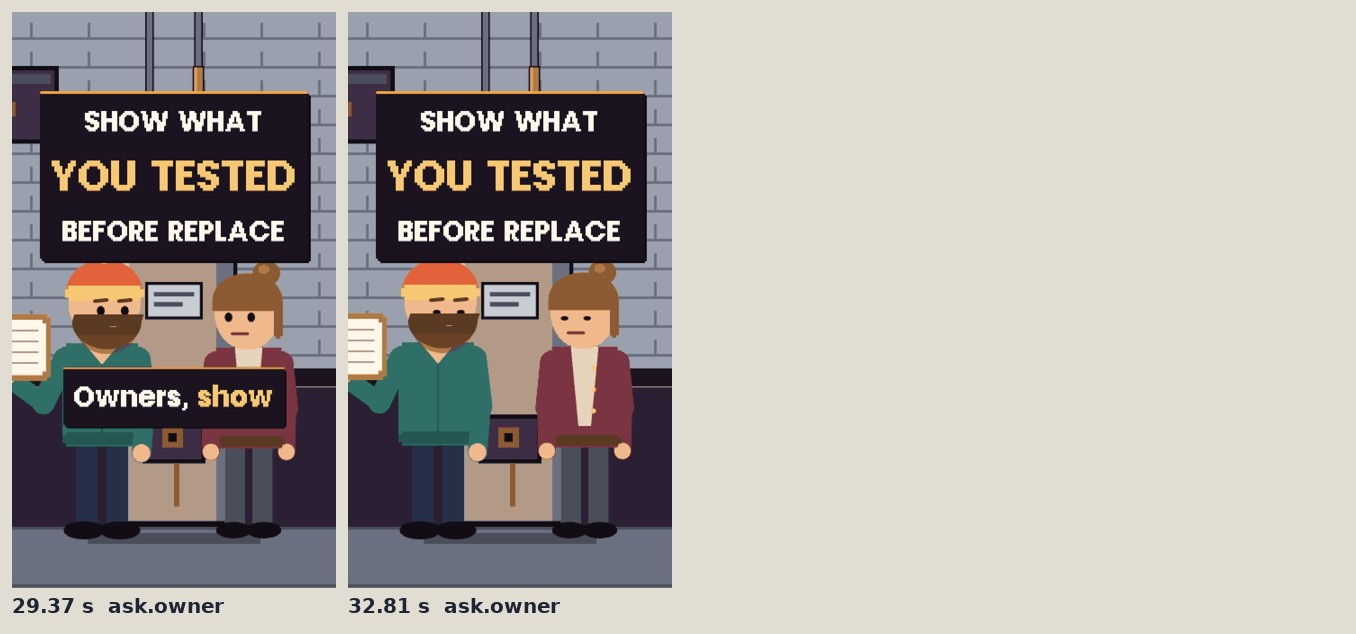
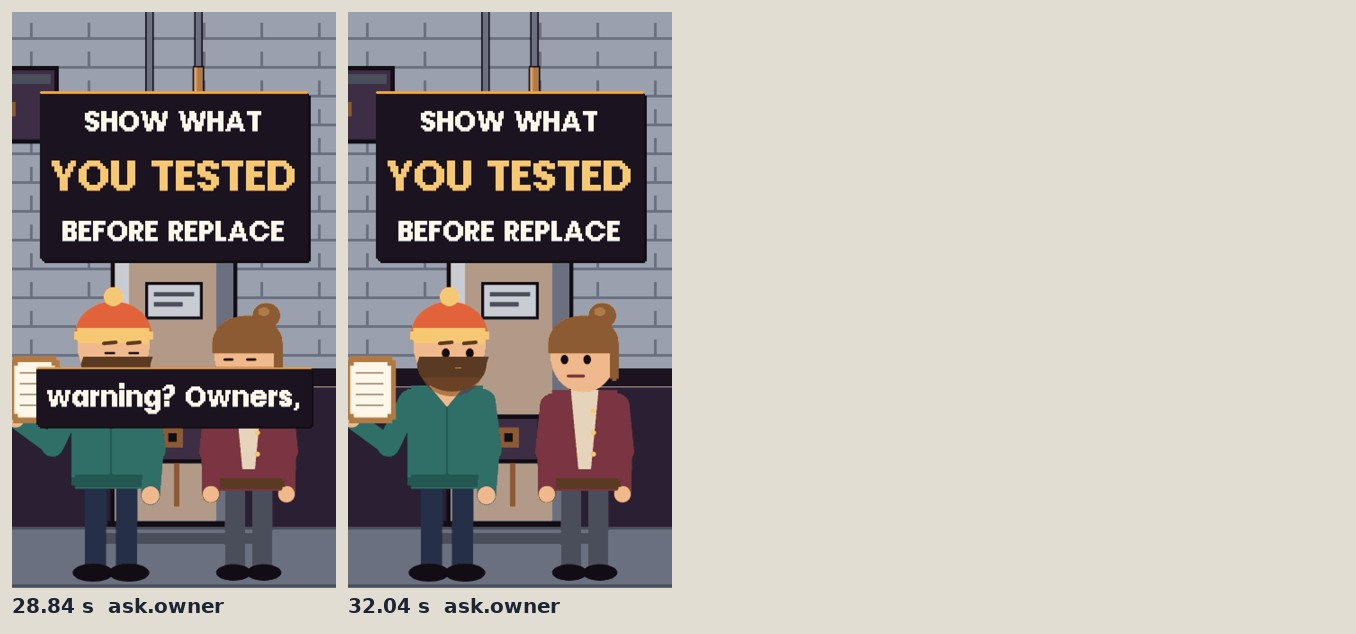
Studio: dead-or-150 fix round 1 (viewer r0, facts r0): lesson beat before the question, re-voice take 5
Claude-Session: https://claude.ai/code/session_01XMn4eK5WZ5WjGis6mA3SHZ

Changed region(s): [[0.0, 0.3896, 0.4646, 0.959]]

diff --git a/video/studio/videos/2026-12-04-dead-or-150/02_transcript/words.js b/video/studio/videos/2026-12-04-dead-or-150/02_transcript/words.js
@@ -1,1 +1,1 @@
-window.WORDS = {"words": [{"w": "One", "start": 0.0, "end": 0.36, "take": 1}, {"w": "heater.", "start": 0.36, "end": 0.7, "take": 1}, {"w": "Two", "start": 1.26, "end": 1.36, "take": 1}, {"w": "prices.", "start": 1.36, "end": 1.8, "take": 1}, {"w": "A", "start": 2.48, "end": 2.54, "take": 1}, {"w": "homeowner", "start": 2.54, "end": 2.84, "take": 1}, {"w": "says", "start": 2.84, "end": 3.24, "take": 1}, {"w": "plumber", "start": 3.24, "end": 3.68, "take": 1}, {"w": "one", "start": 3.68, "end": 3.94, "take": 1}, {"w": "took", "start": 3.94, "end": 4.14, "take": 1}, {"w": "two", "start": 4.14, "end": 4.48, "take": 1}, {"w": "minutes,", "start": 4.48, "end": 4.86, "take": 1}, {"w": "called", "start": 5.24, "end": 5.38, "take": 1}, {"w": "it", "start": 5.38, "end": 5.52, "take": 1}, {"w": "dead,", "start": 5.52, "end": 5.88, "take": 1}, {"w": "quoted", "start": 6.26, "end": 6.46, "take": 1}, {"w": "thirty-one", "start": 6.46, "end": 7.09, "take": 1}, {"w": "hundred.", "start": 7.09, "end": 7.3, "take": 1}, {"w": "Reenactment.", "start": 8.0, "end": 8.8, "take": 2}, {"w": "Can", "start": 9.32, "end": 9.4, "take": 2}, {"w": "you", "start": 9.4, "end": 9.56, "take": 2}, {"w": "still", "start": 9.56, "end": 9.74, "take": 2}, {"w": "come", "start": 9.74, "end": 9.94, "take": 2}, {"w": "look?", "start": 9.94, "end": 10.22, "take": 2}, {"w": "I'll", "start": 10.76, "end": 10.96, "take": 2}, {"w": "look.", "start": 10.96, "end": 11.14, "take": 2}, {"w": "Plumber", "start": 11.92, "end": 12.2, "take": 3}, {"w": "two", "start": 12.2, "end": 12.48, "take": 3}, {"w": "found", "start": 12.48, "end": 12.78, "take": 3}, {"w": "it", "start": 12.78, "end": 12.96, "take": 3}, {"w": "working", "start": 12.96, "end": 13.3, "take": 3}, {"w": "and", "start": 13.3, "end": 13.72, "take": 3}, {"w": "swapped", "start": 13.72, "end": 14.1, "take": 3}, {"w": "a", "start": 14.1, "end": 14.28, "take": 3}, {"w": "leaking", "start": 14.28, "end": 14.5, "take": 3}, {"w": "pipe", "start": 14.5, "end": 14.84, "take": 3}, {"w": "on", "start": 14.84, "end": 15.02, "take": 3}, {"w": "top.", "start": 15.02, "end": 15.38, "take": 3}, {"w": "A", "start": 15.98, "end": 16.14, "take": 3}, {"w": "hundred", "start": 16.14, "end": 16.3, "take": 3}, {"w": "and", "start": 16.3, "end": 16.3, "take": 3}, {"w": "fifty", "start": 16.3, "end": 16.46, "take": 3}, {"w": "dollars.", "start": 16.46, "end": 16.62, "take": 3}, {"w": "Hot", "start": 17.46, "end": 17.76, "take": 3}, {"w": "water's", "start": 17.76, "end": 18.14, "take": 3}, {"w": "back.", "start": 18.14, "end": 18.36, "take": 3}, {"w": "Plumber", "start": 18.94, "end": 19.16, "take": 3}, {"w": "three?", "start": 19.16, "end": 19.46, "take": 3}, {"w": "Cancelled.", "start": 20.14, "end": 20.36, "take": 3}, {"w": "But", "start": 21.28, "end": 21.44, "take": 4}, {"w": "the", "start": 21.44, "end": 21.58, "take": 4}, {"w": "tank's", "start": 21.58, "end": 22.04, "take": 4}, {"w": "ten", "start": 22.04, "end": 22.22, "take": 4}, {"w": "years", "start": 22.22, "end": 22.48, "take": 4}, {"w": "old.", "start": 22.48, "end": 22.9, "take": 4}, {"w": "Some", "start": 23.44, "end": 23.56, "take": 4}, {"w": "say", "start": 23.56, "end": 23.82, "take": 4}, {"w": "that's", "start": 23.82, "end": 24.1, "take": 4}, {"w": "near", "start": 24.1, "end": 24.22, "take": 4}, {"w": "the", "start": 24.22, "end": 24.42, "take": 4}, {"w": "end.", "start": 24.42, "end": 24.7, "take": 4}, {"w": "Upsell,", "start": 25.52, "end": 26.06, "take": 5}, {"w": "or", "start": 26.06, "end": 26.62, "take": 5}, {"w": "fair", "start": 26.62, "end": 27.02, "take": 5}, {"w": "warning?", "start": 27.02, "end": 27.44, "take": 5}, {"w": "Owners,", "start": 28.24, "end": 28.56, "take": 5}, {"w": "show", "start": 29.24, "end": 29.32, "take": 5}, {"w": "what", "start": 29.32, "end": 29.5, "take": 5}, {"w": "you", "start": 29.5, "end": 29.62, "take": 5}, {"w": "tested", "start": 29.62, "end": 30.1, "take": 5}, {"w": "before", "start": 30.1, "end": 30.54, "take": 5}, {"w": "you", "start": 30.54, "end": 30.78, "take": 5}, {"w": "say", "start": 30.78, "end": 31.0, "take": 5}, {"w": "replace.", "start": 31.0, "end": 31.34, "take": 5}], "takes": [{"n": 1, "start": 0.0, "end": 7.68, "wpm": 141}, {"n": 2, "start": 8.0, "end": 11.6, "wpm": 133}, {"n": 3, "start": 11.92, "end": 20.96, "wpm": 153}, {"n": 4, "start": 21.28, "end": 25.2, "wpm": 184}, {"n": 5, "start": 25.52, "end": 31.84, "wpm": 123}], "end": 31.34, "source": "whisper medium.en int8, re-spelled from script.md"};
+window.WORDS = {"words": [{"w": "One", "start": 0.0, "end": 0.36, "take": 1}, {"w": "heater.", "start": 0.36, "end": 0.7, "take": 1}, {"w": "Two", "start": 1.26, "end": 1.36, "take": 1}, {"w": "prices.", "start": 1.36, "end": 1.8, "take": 1}, {"w": "A", "start": 2.48, "end": 2.54, "take": 1}, {"w": "homeowner", "start": 2.54, "end": 2.84, "take": 1}, {"w": "says", "start": 2.84, "end": 3.24, "take": 1}, {"w": "plumber", "start": 3.24, "end": 3.68, "take": 1}, {"w": "one", "start": 3.68, "end": 3.94, "take": 1}, {"w": "took", "start": 3.94, "end": 4.14, "take": 1}, {"w": "two", "start": 4.14, "end": 4.48, "take": 1}, {"w": "minutes,", "start": 4.48, "end": 4.86, "take": 1}, {"w": "called", "start": 5.24, "end": 5.38, "take": 1}, {"w": "it", "start": 5.38, "end": 5.52, "take": 1}, {"w": "dead,", "start": 5.52, "end": 5.88, "take": 1}, {"w": "quoted", "start": 6.26, "end": 6.46, "take": 1}, {"w": "thirty-one", "start": 6.46, "end": 7.09, "take": 1}, {"w": "hundred.", "start": 7.09, "end": 7.3, "take": 1}, {"w": "Reenactment.", "start": 8.0, "end": 8.8, "take": 2}, {"w": "Can", "start": 9.32, "end": 9.4, "take": 2}, {"w": "you", "start": 9.4, "end": 9.56, "take": 2}, {"w": "still", "start": 9.56, "end": 9.74, "take": 2}, {"w": "come", "start": 9.74, "end": 9.94, "take": 2}, {"w": "look?", "start": 9.94, "end": 10.22, "take": 2}, {"w": "I'll", "start": 10.76, "end": 10.96, "take": 2}, {"w": "look.", "start": 10.96, "end": 11.14, "take": 2}, {"w": "Plumber", "start": 11.92, "end": 12.2, "take": 3}, {"w": "two", "start": 12.2, "end": 12.48, "take": 3}, {"w": "found", "start": 12.48, "end": 12.78, "take": 3}, {"w": "it", "start": 12.78, "end": 12.96, "take": 3}, {"w": "working", "start": 12.96, "end": 13.3, "take": 3}, {"w": "and", "start": 13.3, "end": 13.72, "take": 3}, {"w": "swapped", "start": 13.72, "end": 14.1, "take": 3}, {"w": "a", "start": 14.1, "end": 14.28, "take": 3}, {"w": "leaking", "start": 14.28, "end": 14.5, "take": 3}, {"w": "pipe", "start": 14.5, "end": 14.84, "take": 3}, {"w": "on", "start": 14.84, "end": 15.02, "take": 3}, {"w": "top.", "start": 15.02, "end": 15.38, "take": 3}, {"w": "A", "start": 15.98, "end": 16.22, "take": 3}, {"w": "hundred-and-fifty", "start": 16.22, "end": 16.46, "take": 3}, {"w": "dollars.", "start": 16.46, "end": 16.62, "take": 3}, {"w": "Hot", "start": 17.46, "end": 17.76, "take": 3}, {"w": "water's", "start": 17.76, "end": 18.14, "take": 3}, {"w": "back.", "start": 18.14, "end": 18.36, "take": 3}, {"w": "Plumber", "start": 18.94, "end": 19.16, "take": 3}, {"w": "three?", "start": 19.16, "end": 19.46, "take": 3}, {"w": "Canceled.", "start": 20.14, "end": 20.36, "take": 3}, {"w": "But", "start": 21.28, "end": 21.44, "take": 4}, {"w": "the", "start": 21.44, "end": 21.58, "take": 4}, {"w": "tank's", "start": 21.58, "end": 22.04, "take": 4}, {"w": "ten", "start": 22.04, "end": 22.22, "take": 4}, {"w": "years", "start": 22.22, "end": 22.48, "take": 4}, {"w": "old.", "start": 22.48, "end": 22.9, "take": 4}, {"w": "Some", "start": 23.44, "end": 23.56, "take": 4}, {"w": "say", "start": 23.56, "end": 23.82, "take": 4}, {"w": "that's", "start": 23.82, "end": 24.1, "take": 4}, {"w": "near", "start": 24.1, "end": 24.22, "take": 4}, {"w": "the", "start": 24.22, "end": 24.42, "take": 4}, {"w": "end.", "start": 24.42, "end": 24.7, "take": 4}, {"w": "Upsell,", "start": 25.52, "end": 26.06, "take": 5}, {"w": "or", "start": 26.06, "end": 26.62, "take": 5}, {"w": "fair", "start": 26.62, "end": 27.02, "take": 5}, {"w": "warning?", "start": 27.02, "end": 27.44, "take": 5}, {"w": "Owners,", "start": 28.24, "end": 28.56, "take": 5}, {"w": "show", "start": 29.24, "end": 29.32, "take": 5}, {"w": "what", "start": 29.32, "end": 29.5, "take": 5}, {"w": "you", "start": 29.5, "end": 29.62, "take": 5}, {"w": "tested", "start": 29.62, "end": 30.1, "take": 5}, {"w": "before", "start": 30.1, "end": 30.54, "take": 5}, {"w": "you", "start": 30.54, "end": 30.78, "take": 5}, {"w": "say", "start": 30.78, "end": 31.0, "take": 5}, {"w": "replace.", "start": 31.0, "end": 31.34, "take": 5}], "takes": [{"n": 1, "start": 0.0, "end": 7.68, "wpm": 141}, {"n": 2, "start": 8.0, "end": 11.6, "wpm": 133}, {"n": 3, "start": 11.92, "end": 20.96, "wpm": 139}, {"n": 4, "start": 21.28, "end": 25.2, "wpm": 184}, {"n": 5, "start": 25.52, "end": 31.84, "wpm": 123}], "end": 31.34, "source": "whisper medium.en int8, re-spelled from script.md"};

diff --git a/video/studio/videos/2026-12-04-dead-or-150/04_scene/scene.js b/video/studio/videos/2026-12-04-dead-or-150/04_scene/scene.js
@@ -121,11 +121,20 @@ window.SCENE = {
 };
 /* ---- hook.one: plumber one, close, at the heater: 2 MINUTES, then DEAD., then NEW ONE: $3,100 ---- */
 const one = (k, T) => {
-  const t0 = k.S('hook.one'), tDead = wordT(k, 'hook.one', /^dead/i, 2.5) - 0.12, tQuote = wordT(k, 'hook.one', /^thirty/i, 3.2) - 0.12;
-  k.cut(t0);
+  const t0 = k.S('hook.one'), tPl = wordT(k, 'hook.one', /^plumber/i, 0.8) - 0.08, tTwo = wordT(k, 'hook.one', /^two/i, 1.5) - 0.1;
+  const tDead = wordT(k, 'hook.one', /^dead/i, 2.5) - 0.12, tQuote = wordT(k, 'hook.one', /^thirty/i, 3.2) - 0.12;
+  if (T < tPl) {   /* viewer r0: the voice names the homeowner first, so the picture does too */
+    k.cut(t0);
+    utility(k, 0.25, 2.0, {fx: 300, fy: 900, drip: true});
+    owner(k, 540, 2.3, 'talk', 'cross', {feet: 1800, face: -1, talk: false});
+    plate(k, [['HOMEOWNER', 132, TEAL]], 264, {rule: TEAL});
+    return {host: false};
+  }
+  k.cut(tPl);
   utility(k, 0.25, 2.0, {fx: 400, fy: 900, drip: true});
   plumber1(k, 560, 2.3, T >= tQuote ? 'talk' : 'clip', {feet: 1800, talk: T >= tDead});
-  if (T < tDead - 0.06) plate(k, [['2 MINUTES', 132, CREAM]], 264);
+  if (T < tTwo - 0.06) plate(k, [['PLUMBER 1', 132, ORANGE]], 264);
+  else if (T < tDead - 0.06) stampPlate(k, [['2 MINUTES', 132, CREAM]], 264, tTwo, {drop: 0.06});
   else if (T < tQuote - 0.06) stampPlate(k, [['DEAD.', 198, RED]], 264, tDead, {drop: 0.06, freeze: 3});
   else stampPlate(k, [['NEW ONE:', 132, CREAM], ['$3,100', 198, RED]], 264, tQuote, {drop: 0.06, freeze: 4});
   return {host: false};
@@ -137,14 +146,11 @@ Object.assign(window.SCENE.sections, {
       const t0 = k.S('call'), tHer = wordT(k, 'call', /^can/i, 0.9) - 0.1, tHim = wordT(k, 'call', /^i'?ll/i, 3.4) - 0.1;
       k.cut(t0);
       split(k, WINE, SLATE);
-      const herTalk = T >= tHer && T < tHim, hisTalk = T >= tHim;
+      const herTalk = T >= tHer && T < tHim, hisTalk = T >= tHim;   /* viewer r0: no dimming (it changed their colors) */
       const hd = owner(k, 290, 1.9, 'phone', herTalk ? 'cross' : 'calm', {feet: 1740, face: 1, talk: herTalk}).head;
       const hd2 = plumber2(k, 800, 1.9, 'stand', {feet: 1740, talk: hisTalk});
       phoneAt(k, hd2.head, 1.9, 1);
-      if (!herTalk && !hisTalk) k.shape(k.rectPts(546, 0, 534, 1180, 0), {fill: 'rgba(18,13,20,0.0)', line: false});
-      if (herTalk) k.shape(k.rectPts(546, 250, 534, 930, 0), {fill: 'rgba(18,13,20,0.35)', line: false});
-      if (hisTalk) k.shape(k.rectPts(0, 250, 534, 930, 0), {fill: 'rgba(18,13,20,0.35)', line: false});
-      if (T < tHer - 0.06) plate(k, [['REENACTMENT', 132, CREAM]], 264, {rule: TEAL});
+      if (T < tHer - 0.06) plate(k, [['REENACTMENT', 132, CREAM], ['THE CALL TO', 132, CREAM], ['PLUMBER 2', 132, BLUE]], 264, {rule: TEAL});
       else if (T < tHim - 0.06) stampPlate(k, [['HOMEOWNER', 132, TEAL], ['CAN YOU STILL', 132, CREAM], ['COME LOOK?', 132, CREAM]], 264, tHer, {drop: 0.06, rule: WINE});
       else stampPlate(k, [['PLUMBER 2', 132, BLUE], ["I'LL LOOK.", 132, CREAM]], 264, tHim, {drop: 0.06, rule: BLUE});
       void hd;
@@ -158,7 +164,9 @@ Object.assign(window.SCENE.sections, {
         k.cut(t0);
         utility(k, 0.2, 2.0, {fx: 640, fy: 760, drip: T < tPipe + 0.4, fixed: T >= tPipe + 0.4});
         plumber2(k, 470, 2.2, T >= tCash ? 'shrug' : 'point', {feet: 1780, face: 1, at: [700, 420], talk: false});
-        if (T < tPipe - 0.06) plate(k, [['IT WORKS.', 198, TEAL]], 264);
+        const tFound = wordT(k, 'fix', /^found/i, 0.5) - 0.1;
+        if (T < tFound - 0.06) plate(k, [['PLUMBER 2', 132, BLUE]], 264, {rule: BLUE});
+        else if (T < tPipe - 0.06) stampPlate(k, [['IT WORKS.', 198, TEAL]], 264, tFound, {drop: 0.06});
         else if (T < tCash - 0.06) stampPlate(k, [['A LEAKING PIPE', 132, CREAM]], 264, tPipe, {drop: 0.06});
         else stampPlate(k, [['$150', 198, GOLD]], 264, tCash, {drop: 0.06, freeze: 4});
       } else {
@@ -180,7 +188,7 @@ Object.assign(window.SCENE.sections, {
       utility(k, 0.3, 2.0, {fx: 300, fy: 900, fixed: true});
       owner(k, 540, 2.3, 'phone', 'calm', {feet: 1800, face: 1, talk: T >= tCan});
       if (T < tCan - 0.06) plate(k, [['PLUMBER 3?', 132, CREAM]], 264);
-      else stampPlate(k, [['CANCELLED', 132, RED]], 264, tCan, {drop: 0.06, freeze: 3});
+      else stampPlate(k, [['CANCELED', 132, RED]], 264, tCan, {drop: 0.06, freeze: 3});
       return {host: false};
     },
 
@@ -195,31 +203,32 @@ Object.assign(window.SCENE.sections, {
         else stampPlate(k, [['10 YEARS OLD', 132, RED]], 264, tTen, {drop: 0.06, freeze: 4});
       } else {
         k.cut(tSome);
-        utility(k, 0.15, 1.8, {fx: 540, fy: 900, fixed: true});   /* facts r0 advisory: the age case is the commenters', not plumber one's */
+        utility(k, 0.15, 1.8 + 0.3 * clamp((T - tSome) / 2.0), {fx: 540, fy: 760, fixed: true});   /* facts r0 advisory: the age case is the commenters', not plumber one's; QA r0: a slow push-in (the shot sat flat 1.3 s) */
         plate(k, [['SOME SAY', 132, CREAM], ['NEAR THE END', 132, GOLD]], 264);
       }
       return {host: false};
     },
 
-    /* ---- ask: plumber one between the two readings of his quote: UPSELL? $3,100 against FAIR WARNING? 10 YEARS ---- */
+    /* ---- ask, the last frame: plumber one between the two readings of his quote: UPSELL? $3,100 against FAIR WARNING? 10 YEARS ---- */
     ask: (k, T) => {
-      const t0 = k.S('ask'), tFair = wordT(k, 'ask', /^fair/i, 0.9) - 0.1, tOwn = k.S('ask.owner');
-      if (T >= tOwn) return showIt(k, T, tOwn);
+      const t0 = k.S('ask'), tFair = wordT(k, 'ask', /^fair/i, 0.9) - 0.1;
       k.cut(t0);
       split(k, SLATE, DTEAL);
       plumber1(k, 540, 2.0, 'shrug', {feet: 1780});   /* facts r1 advisory: both readings hang on plumber one's verdict */
-      plate(k, [['UPSELL?', 132, RED], ['$3,100', 132, CREAM]], 264, {cx: 270, bg: INK, rule: RED});
-      if (T >= tFair) stampPlate(k, [['FAIR', 132, TEAL], ['WARNING?', 132, TEAL], ['10 YEARS', 132, CREAM]], 264, tFair, {cx: 810, bg: INK, rule: TEAL, drop: 0.06});
+      plate(k, [['UPSELL?', 132, RED], ['$3,100', 132, CREAM]], 264, {cx: 290, bg: INK, rule: RED});
+      if (T >= tFair) stampPlate(k, [['FAIR', 132, TEAL], ['WARNING?', 132, TEAL], ['10 YEARS', 132, CREAM]], 264, tFair, {cx: 768, bg: INK, rule: TEAL, drop: 0.06});
       return {host: false};
     },
 });
 
-/* ---- ask.owner (inside ask): the owner's move, the last thing heard and seen ---- */
-const showIt = (k, T, t0) => {
+/* ---- rule (viewer r0: the lesson gets its own beat before the question, tied to the tank's age) ---- */
+window.SCENE.sections.rule = (k, T) => {
+  const t0 = k.S('rule'), tShow = wordT(k, 'rule', /^show/i, 1.6) - 0.1;
   k.cut(t0);
   utility(k, 0.2, 1.6, {fx: 540, fy: 900, fixed: true});
-  plumber1(k, 330, 2.0, 'clip', {feet: 1880, face: 1});   /* the card owns y 264 to about 790: heads below it */
-  owner(k, 790, 2.1, 'stand', 'calm', {feet: 1880, face: -1});
-  stampPlate(k, [['SHOW WHAT', 132, CREAM], ['YOU TESTED', 198, GOLD], ['BEFORE REPLACE', 132, CREAM]], 264, t0 + 0.1, {drop: 0.06, freeze: 4});
+  plumber1(k, 340, 1.6, T >= tShow ? 'clip' : 'talk', {feet: 1630, face: 1});   /* faces between the card (to y 873) and the captions (from y 1184) */
+  owner(k, 760, 1.7, 'stand', 'calm', {feet: 1630, face: -1});
+  if (T < tShow - 0.06) plate(k, [['OLD? SAY SO.', 132, CREAM]], 264);
+  else stampPlate(k, [['SHOW WHAT', 132, CREAM], ['YOU TESTED', 198, GOLD], ['BEFORE REPLACE', 132, CREAM]], 264, tShow, {drop: 0.06, freeze: 4});
   return {host: false};
 };

diff --git a/video/studio/videos/2026-12-04-dead-or-150/03_cues/cues.js b/video/studio/videos/2026-12-04-dead-or-150/03_cues/cues.js
@@ -1,1 +1,1 @@
-window.CUES = {"schema": "pnf.studio.cues.v1", "source": "estimate", "music": {"id": "rooms", "level": 0.16, "tune": "night"}, "duration": 33.108, "cues": [{"id": "hook", "level": 0, "quote": "One heater", "sfx": "pop", "shift": 0.0, "pin": null, "text": "Frame 0, settled: the water heater in the middle, plumber one close on the left, plumber two close on the right. Left plate: $3,100 in red. Right plate: $150 in gold. At 0.5 s a plain cut to the heater close, the two prices on it, the left one red, the right one gold (the first change). On \"prices\" a plain cut back to the two plumbers, the same plates.", "t": 0.0, "word": 0, "end": 8.272}, {"id": "hook.one", "level": 1, "quote": "A homeowner says", "sfx": "blip", "shift": 0.0, "pin": null, "text": "A plain cut to plumber one, close, at the heater, clipboard up. The plate: 2 MINUTES. On \"dead\" a stamp: DEAD. in red. On \"thirty\" a stamp: NEW ONE: / $3,100, the last row big and red.", "t": 2.07, "word": 4, "end": 8.272}, {"id": "call", "level": 0, "quote": "Reenactment", "sfx": "blip", "shift": 0.0, "pin": null, "text": "The frame splits for a phone call: the homeowner left on a wine wall, phone to her ear; plumber two right on a slate wall, a phone at his ear. The plate across the top: REENACTMENT. On \"Can\" it gives way to the homeowner's line, her side lit: HOMEOWNER / CAN YOU STILL / COME LOOK? On \"I'll\" it gives way to his line, his side lit: PLUMBER 2 / I'LL LOOK.", "t": 8.272, "word": 18, "end": 12.284}, {"id": "fix", "level": 0, "quote": "Plumber two found it working", "sfx": "stamp", "shift": 0.0, "pin": null, "text": "A plain cut to plumber two, close, at the heater. The plate: IT WORKS. On \"swapped\" the pipe on top gets a new piece and the plate gives way to: A LEAKING PIPE. On \"hundred\" a stamp: $150, big and gold. On \"Hot\" a plain cut to the homeowner, close, smiling, steam off a mug: HOT WATER / IS BACK.", "payoff": true, "t": 12.284, "word": 26, "end": 19.966}, {"id": "three", "level": 0, "quote": "Plumber three", "sfx": "blip", "shift": 0.0, "pin": null, "text": "A plain cut to the homeowner, close, phone to her ear. The plate: PLUMBER 3? On \"Cancelled\" a stamp: CANCELLED in red.", "t": 19.966, "word": 46, "end": 22.202}, {"id": "twist", "level": 0, "quote": "But the tank's", "sfx": "stamp", "shift": 0.0, "pin": null, "text": "A plain cut to the heater, close, its label plate. The plate: THE TANK. On \"ten\" a stamp: 10 YEARS OLD, big and red. On \"Some\" a plain cut to the heater a step back, no one in the frame: SOME SAY / NEAR THE END.", "t": 22.202, "word": 49, "end": 26.928}, {"id": "ask", "level": 0, "quote": "Upsell, or fair", "sfx": "blip", "shift": 0.0, "pin": null, "text": "The frame splits, one person a side: plumber one on a slate wall left, plumber two on a teal wall right. Left plate: UPSELL? / $3,100 in red. Right plate, on \"fair\": FAIR / WARNING? / 10 YEARS, in teal.", "t": 26.928, "word": 61, "end": 33.108}, {"id": "ask.owner", "level": 1, "quote": "Owners, show what you", "sfx": "stamp", "shift": 0.0, "pin": null, "text": "A plain cut to the utility room, plumber one left holding the clipboard out to the homeowner right, who reads it. The card lands: SHOW WHAT / YOU TESTED / BEFORE REPLACE, the middle row big and gold. Ends 1 s after the last word.", "t": 28.77, "word": 65, "end": 33.108}]};
+window.CUES = {"schema": "pnf.studio.cues.v1", "source": "whisper medium.en int8, re-spelled from script.md", "music": {"id": "rooms", "level": 0.16, "tune": "night"}, "duration": 32.34, "cues": [{"id": "hook", "level": 0, "quote": "One heater", "sfx": "pop", "shift": 0.0, "pin": null, "text": "Frame 0, settled: the water heater in the middle, plumber one close on the left, plumber two close on the right. Left plate: $3,100 in red. Right plate: $150 in gold. At 0.5 s a plain cut to the heater close, the two prices on it, the left one red, the right one gold (the first change). On \"prices\" a plain cut back to the two plumbers, the same plates.", "t": 0.0, "word": 0, "end": 8.0}, {"id": "hook.one", "level": 1, "quote": "A homeowner says", "sfx": "blip", "shift": 0.0, "pin": null, "text": "A plain cut to plumber one, close, at the heater, clipboard up. The plate: 2 MINUTES. On \"dead\" a stamp: DEAD. in red. On \"thirty\" a stamp: NEW ONE: / $3,100, the last row big and red.", "t": 2.48, "word": 4, "end": 8.0}, {"id": "call", "level": 0, "quote": "Reenactment", "sfx": "blip", "shift": 0.0, "pin": null, "text": "The frame splits for a phone call: the homeowner left on a wine wall, phone to her ear; plumber two right on a slate wall, a phone at his ear. The plate across the top: REENACTMENT. On \"Can\" it gives way to the homeowner's line, her side lit: HOMEOWNER / CAN YOU STILL / COME LOOK? On \"I'll\" it gives way to his line, his side lit: PLUMBER 2 / I'LL LOOK.", "t": 8.0, "word": 18, "end": 11.92}, {"id": "fix", "level": 0, "quote": "Plumber two found it working", "sfx": "stamp", "shift": 0.0, "pin": null, "text": "A plain cut to plumber two, close, at the heater. The plate: IT WORKS. On \"swapped\" the pipe on top gets a new piece and the plate gives way to: A LEAKING PIPE. On \"hundred\" a stamp: $150, big and gold. On \"Hot\" a plain cut to the homeowner, close, smiling, steam off a mug: HOT WATER / IS BACK.", "payoff": true, "t": 11.92, "word": 26, "end": 18.94}, {"id": "three", "level": 0, "quote": "Plumber three", "sfx": "blip", "shift": 0.0, "pin": null, "text": "A plain cut to the homeowner, close, phone to her ear. The plate: PLUMBER 3? On \"Canceled\" a stamp: CANCELED in red.", "t": 18.94, "word": 44, "end": 21.28}, {"id": "twist", "level": 0, "quote": "But the tank's", "sfx": "stamp", "shift": 0.0, "pin": null, "text": "A plain cut to the heater, close, its label plate. The plate: THE TANK. On \"ten\" a stamp: 10 YEARS OLD, big and red. On \"Some\" a plain cut to the heater a step back, no one in the frame: SOME SAY / NEAR THE END.", "t": 21.28, "word": 47, "end": 25.52}, {"id": "ask", "level": 0, "quote": "Upsell, or fair", "sfx": "blip", "shift": 0.0, "pin": null, "text": "The frame splits, a slate wall left and a teal wall right, plumber one in the middle, shrugging: both readings of his quote. Left plate: UPSELL? / $3,100 in red. Right plate, on \"fair\": FAIR / WARNING? / 10 YEARS, in teal.", "t": 25.52, "word": 59, "end": 32.34}, {"id": "ask.owner", "level": 1, "quote": "Owners, show what you", "sfx": "stamp", "shift": 0.0, "pin": null, "text": "A plain cut to the utility room, plumber one left holding the clipboard out to the homeowner right, who reads it. The card lands: SHOW WHAT / YOU TESTED / BEFORE REPLACE, the middle row big and gold. Ends 1 s after the last word.", "t": 28.24, "word": 63, "end": 32.34}]};

diff --git a/video/studio/videos/2026-12-04-dead-or-150/02_transcript/mouth.js b/video/studio/videos/2026-12-04-dead-or-150/02_transcript/mouth.js
@@ -1,0 +1,1 @@
[1 lines of base64/hex data omitted]

diff --git a/video/studio/videos/2026-12-04-dead-or-150/03_cues/cues.md b/video/studio/videos/2026-12-04-dead-or-150/03_cues/cues.md
@@ -12,30 +12,36 @@ plate: $3,100 in red. Right plate: $150 in gold. At 0.5 s a plain cut to the hea
 one red, the right one gold (the first change). On "prices" a plain cut back to the two plumbers, the same plates.
 
 ## hook.one "A homeowner says" [sfx: blip]
-A plain cut to plumber one, close, at the heater, clipboard up. The plate: 2 MINUTES. On "dead" a stamp: DEAD. in red.
+A plain cut to the homeowner, close, by the heater (viewer r0: the voice names her before plumber one). The plate:
+HOMEOWNER. On "plumber"
+a plain cut to plumber one, close, at the heater, clipboard up. The plate: PLUMBER 1, then on "two": 2 MINUTES. On "dead" a stamp: DEAD. in red.
 On "thirty" a stamp: NEW ONE: / $3,100, the last row big and red.
 
 ## call "Reenactment" [sfx: blip]
 The frame splits for a phone call: the homeowner left on a wine wall, phone to her ear; plumber two right on a slate wall,
-a phone at his ear. The plate across the top: REENACTMENT. On "Can" it gives way to the homeowner's line, her side
+a phone at his ear, a phone at hers (viewer r0: no dimming, which changed their colors). The plate across the top:
+REENACTMENT / THE CALL TO / PLUMBER 2. On "Can" it gives way to the homeowner's line, her side
 lit: HOMEOWNER / CAN YOU STILL / COME LOOK? On "I'll" it gives way to his line, his side lit: PLUMBER 2 / I'LL LOOK.
 
 ## fix "Plumber two found it working" [payoff] [sfx: stamp]
-A plain cut to plumber two, close, at the heater. The plate: IT WORKS. On "swapped" the pipe on top gets a new piece and
+A plain cut to plumber two, close, at the heater. The plate: PLUMBER 2, then on
+"found": IT WORKS. On "swapped" the pipe on top gets a new piece and
 the plate gives way to: A LEAKING PIPE. On "hundred" a stamp: $150, big and gold. On "Hot" a plain cut to the homeowner,
 close, smiling, steam off a mug: HOT WATER / IS BACK.
 
 ## three "Plumber three" [sfx: blip]
-A plain cut to the homeowner, close, phone to her ear. The plate: PLUMBER 3? On "Cancelled" a stamp: CANCELLED in red.
+A plain cut to the homeowner, close, phone to her ear. The plate: PLUMBER 3? On "Canceled" a stamp: CANCELED in red.
 
 ## twist "But the tank's" [sfx: stamp]
 A plain cut to the heater, close, its label plate. The plate: THE TANK. On "ten" a stamp: 10 YEARS OLD, big and red. On
 "Some" a plain cut to the heater a step back, no one in the frame: SOME SAY / NEAR THE END.
 
+## rule "Plumbers, if it's old" [sfx: whoosh]
+A plain cut to the utility room, plumber one left holding the clipboard out to the homeowner right, who reads it (viewer
+r0: the lesson gets its own beat before the question, tied to the tank's age). The plate: OLD? SAY SO. On "show" a stamp:
+SHOW WHAT / YOU TESTED / BEFORE REPLACE, the middle row big and gold.
+
 ## ask "Upsell, or fair" [sfx: blip]
 The frame splits, a slate wall left and a teal wall right, plumber one in the middle, shrugging: both readings of his
-quote. Left plate: UPSELL? / $3,100 in red. Right plate, on "fair": FAIR / WARNING? / 10 YEARS, in teal.
-
-## ask.owner "Owners, show what you" [sfx: stamp]
-A plain cut to the utility room, plumber one left holding the clipboard out to the homeowner right, who reads it. The card
-lands: SHOW WHAT / YOU TESTED / BEFORE REPLACE, the middle row big and gold. Ends 1 s after the last word.
+quote. Left plate: UPSELL? / $3,100 in red. Right plate, on "fair": FAIR / WARNING? / 10 YEARS, in teal. Ends 1 s after
+the last word.

diff --git a/video/studio/LEARNINGS.md b/video/studio/LEARNINGS.md
@@ -177,3 +177,5 @@ The studio learns in three loops (Todd, Oct 28, 2026, 3:43 pm: "make this video 
 - 2026-11-15 evening make run: no lesson made. Case bank rows six-hours-6k (verdict) and dead-or-150 (call) cannot be read again: the cloud proxy refuses thenerdstash.com, wegotthiscovered.com and thecooldown.com (CONNECT 403) and the box reader does not allow them. A search of the box's trade press hosts found only state enforcement cases (one side, no split). 0 lessons wait.
 - 2026-11-15 tool finding (again, as Nov 12): the cloud's python3 is 3.11 and fails check_repo (f-strings, PIL, cryptography); python3.13 runs it with 0 errors. This run pushed its recording commit before reading check_repo's exit (the 3.11 run, 4 environment errors); python3.13 then passed it with 0 errors. Environment only; no gate or tool changed.
 - 2026-11-15 21 box queue: 6 fetch jobs (5 pulse-feeds-night, 1 case-find on the roofingcontractor.com lawsuits list page 2 and 2 judgment reports), story finding for the next three v4 lessons. No trial twins (no trial model set).
+- 2026-11-17 tool finding (live chat, Todd's Nov 16 build): the web reader tool (WebFetch) opened thecooldown.com pages that the cloud shell's proxy refuses (CONNECT 403). The source for dead-or-150 was read on the site itself at its slug address (https://www.thecooldown.com/green-home/water-heater-leak-second-opinion-fix-2/); the old ?p=819700 address redirects to the home page, so a bank row needs the slug address. Same story on Yahoo Life. A make run that tries WebFetch before calling a case source unreadable may find it readable; Todd's Nov 16 "Other formats fill in" applies only when it is not.
+- 2026-11-17 dead-or-150 (first call): pre-voice facts r0 FAIL, r1 PASS. The fault: a reenacted line put plumber one's verdict in the homeowner's mouth and implied the call came after it; a reenactment must add no claim, including when or why a call was made. Whisper writes "a hundred and fifty" as "$150." (no "and") and "cancelled" as "canceled", which the voice check flags; spelling the script as said ("hundred-and-fifty", "Canceled") and `rewords` cleared both with no re-voice and no check changed. The kit has one plumber figure: a second plumber is the same rig with the look's cap, jacket and beard colors swapped for the draw (scene.js plumber2), so two plumbers never read as one person.

diff --git a/video/studio/videos/2026-12-04-dead-or-150/01_voice/script.md b/video/studio/videos/2026-12-04-dead-or-150/01_voice/script.md
@@ -1,11 +1,11 @@
-# Script: Dead, or $150? (v4 call, r1 after pre-voice facts r0: the reenacted call adds no claim; Nov 17, 2026; source The Cool Down, Nov 1, 2026, the homeowner's own post; the call is a reenactment in our own words)
+# Script: Dead, or $150? (v4 call, r2 after viewer r0: the lesson gets its own beat before the closing question, said to plumbers and tied to the tank's age; r1 after pre-voice facts r0: the reenacted call adds no claim; Nov 17, 2026; source The Cool Down, Nov 1, 2026, the homeowner's own post; the call is a reenactment in our own words)
 
 [conversational] One heater. Two prices. A homeowner says plumber one took two minutes, called it dead, quoted thirty-one hundred.
 
 Reenactment. Can you still come look? I'll look.
 
-Plumber two found it working and swapped a leaking pipe on top. A hundred and fifty dollars. Hot water's back. Plumber three? Cancelled.
+Plumber two found it working and swapped a leaking pipe on top. A hundred-and-fifty dollars. Hot water's back. Plumber three? Canceled.
 
 But the tank's ten years old. Some say that's near the end.
 
-Upsell, or fair warning? Owners, show what you tested before you say replace.
+Plumbers, if it's old, say so, but show what you tested before you say replace. Upsell, or fair warning?

diff --git a/video/studio/videos/2026-12-04-dead-or-150/02_transcript/transcript.md b/video/studio/videos/2026-12-04-dead-or-150/02_transcript/transcript.md
@@ -1,16 +1,15 @@
 # Transcript: 2026-12-04-dead-or-150
 
-Voice W3pJy9ibur1FKUihVxzY (eleven_v4), 74 words, 31.3 s of voice.
+Voice W3pJy9ibur1FKUihVxzY (eleven_v4), 72 words, 31.3 s of voice.
 
 ## Flags
-- dropped 'and': not heard
-- 20.1 s heard 'canceled.' for 'Cancelled.'
+none
 
 ## Pace per take (target 160 to 195 wpm)
 ```
   01     0.0 s  141 wpm  slow: rewrite it as talk, then speak --take 1
   02     8.0 s  133 wpm  slow: rewrite it as talk, then speak --take 2
-  03    11.9 s  153 wpm  
+  03    11.9 s  139 wpm  slow: rewrite it as talk, then speak --take 3
   04    21.3 s  184 wpm  
   05    25.5 s  123 wpm  slow: rewrite it as talk, then speak --take 5
 ```
@@ -31,13 +30,13 @@ Voice W3pJy9ibur1FKUihVxzY (eleven_v4), 74 words, 31.3 s of voice.
 
 `00:11.9` Plumber two found it working and swapped a leaking pipe on top.
 
-`00:16.0` A hundred and fifty dollars.
+`00:16.0` A hundred-and-fifty dollars.
 
 `00:17.5` Hot water's back.
 
 `00:18.9` Plumber three?
 
-`00:20.1` Cancelled.
+`00:20.1` Canceled.
 
 `00:21.3` But the tank's ten years old.
 
